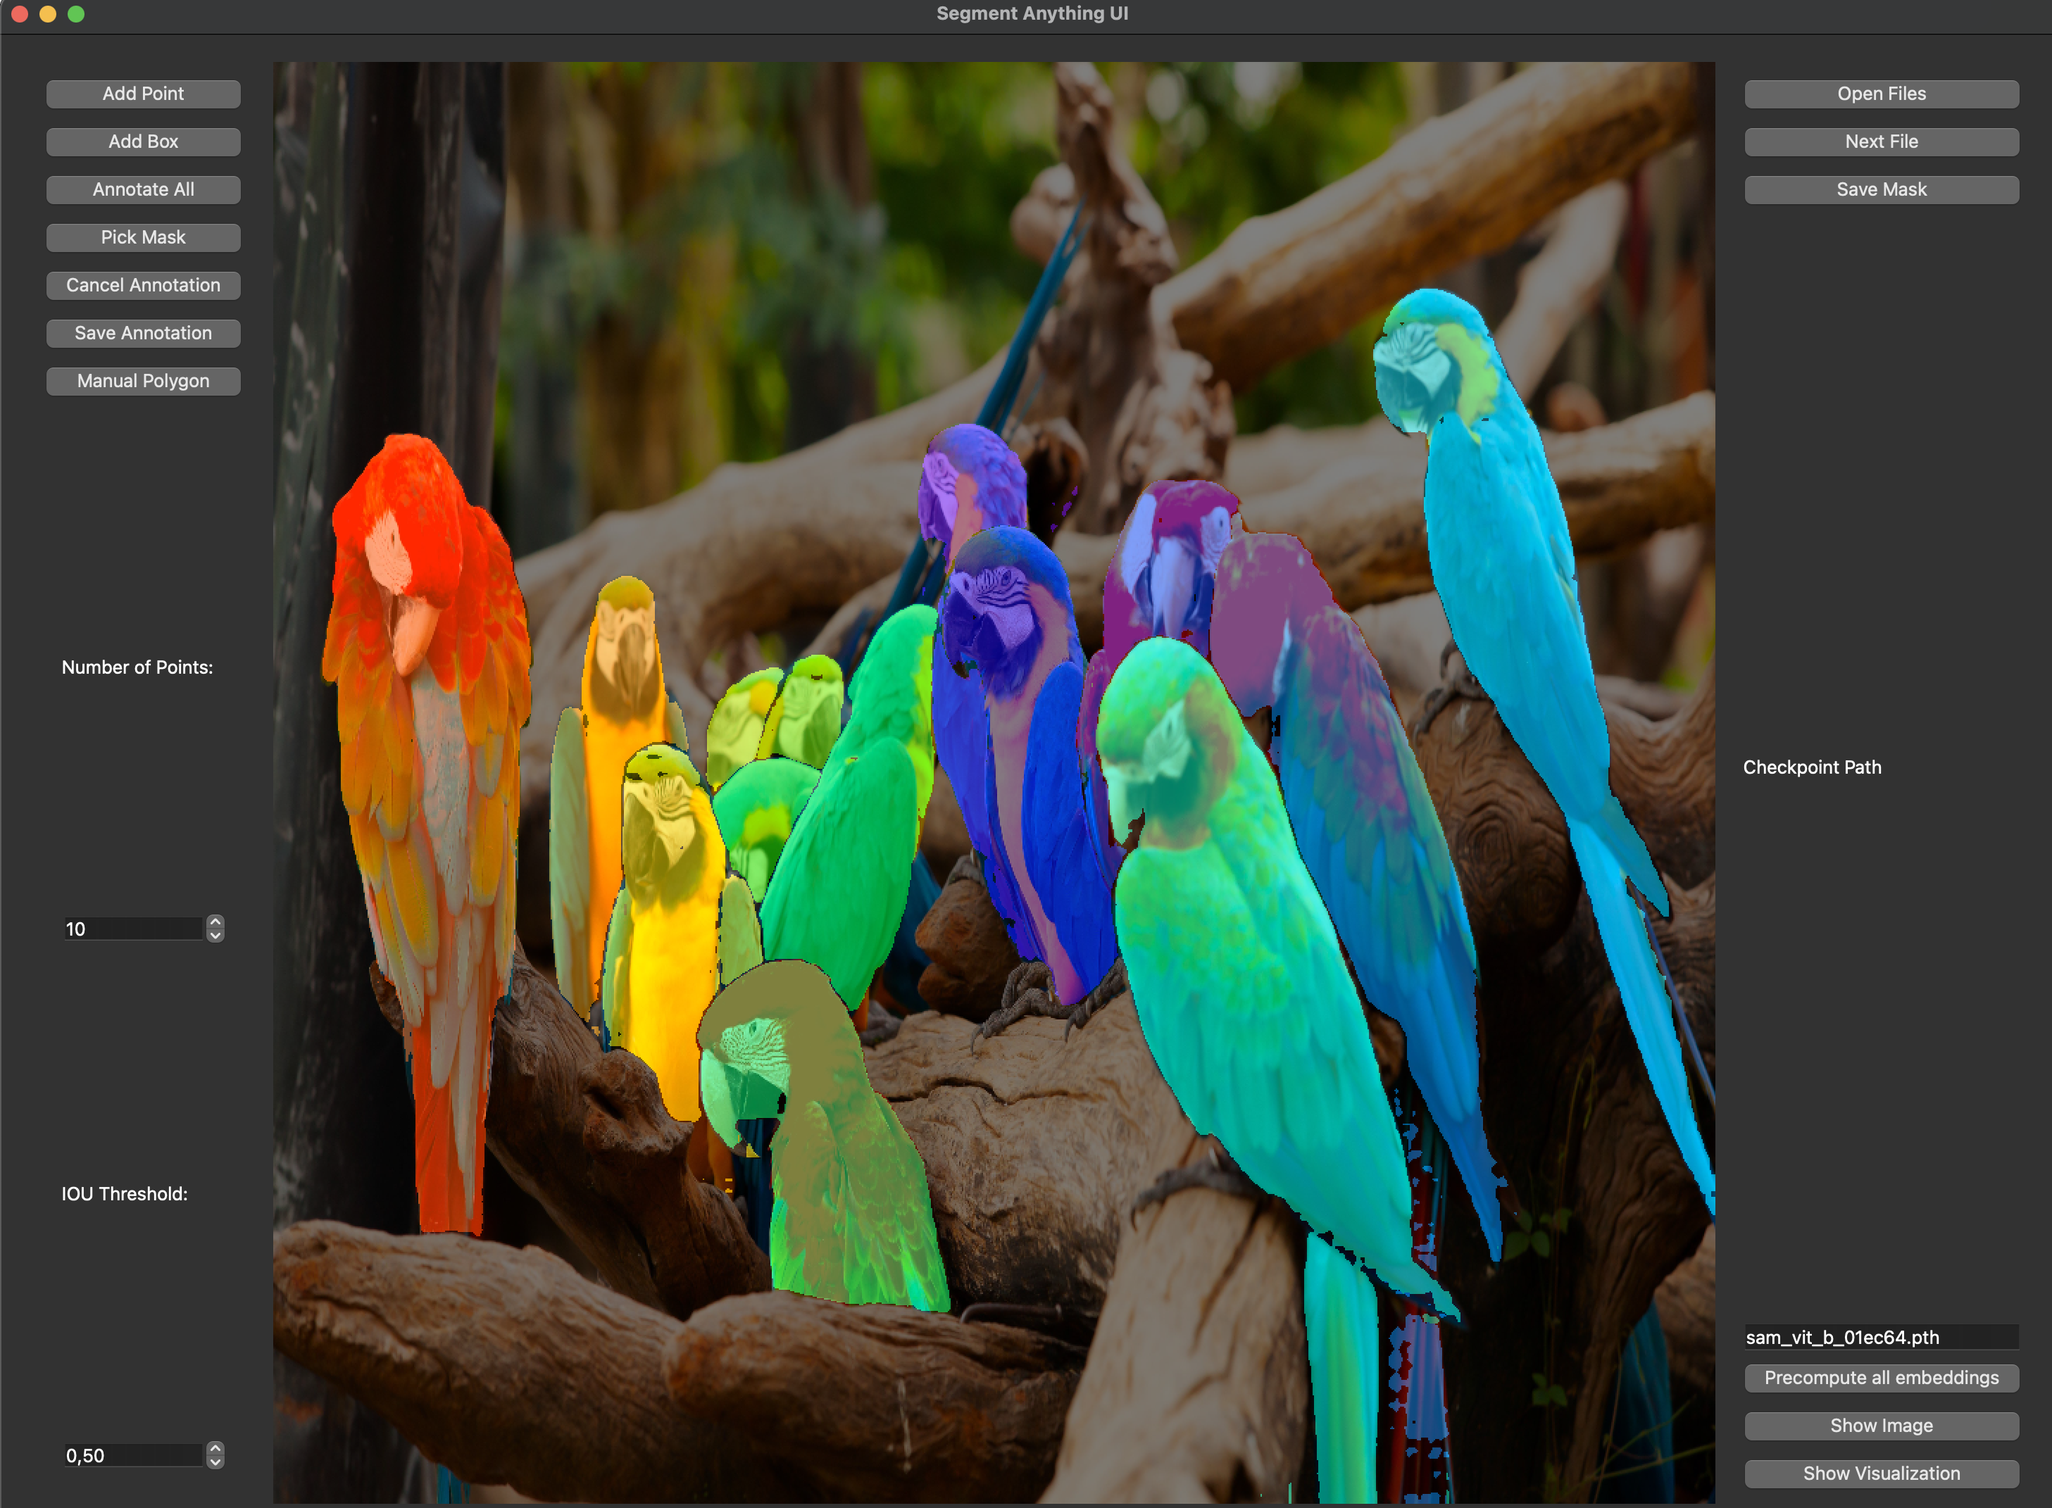
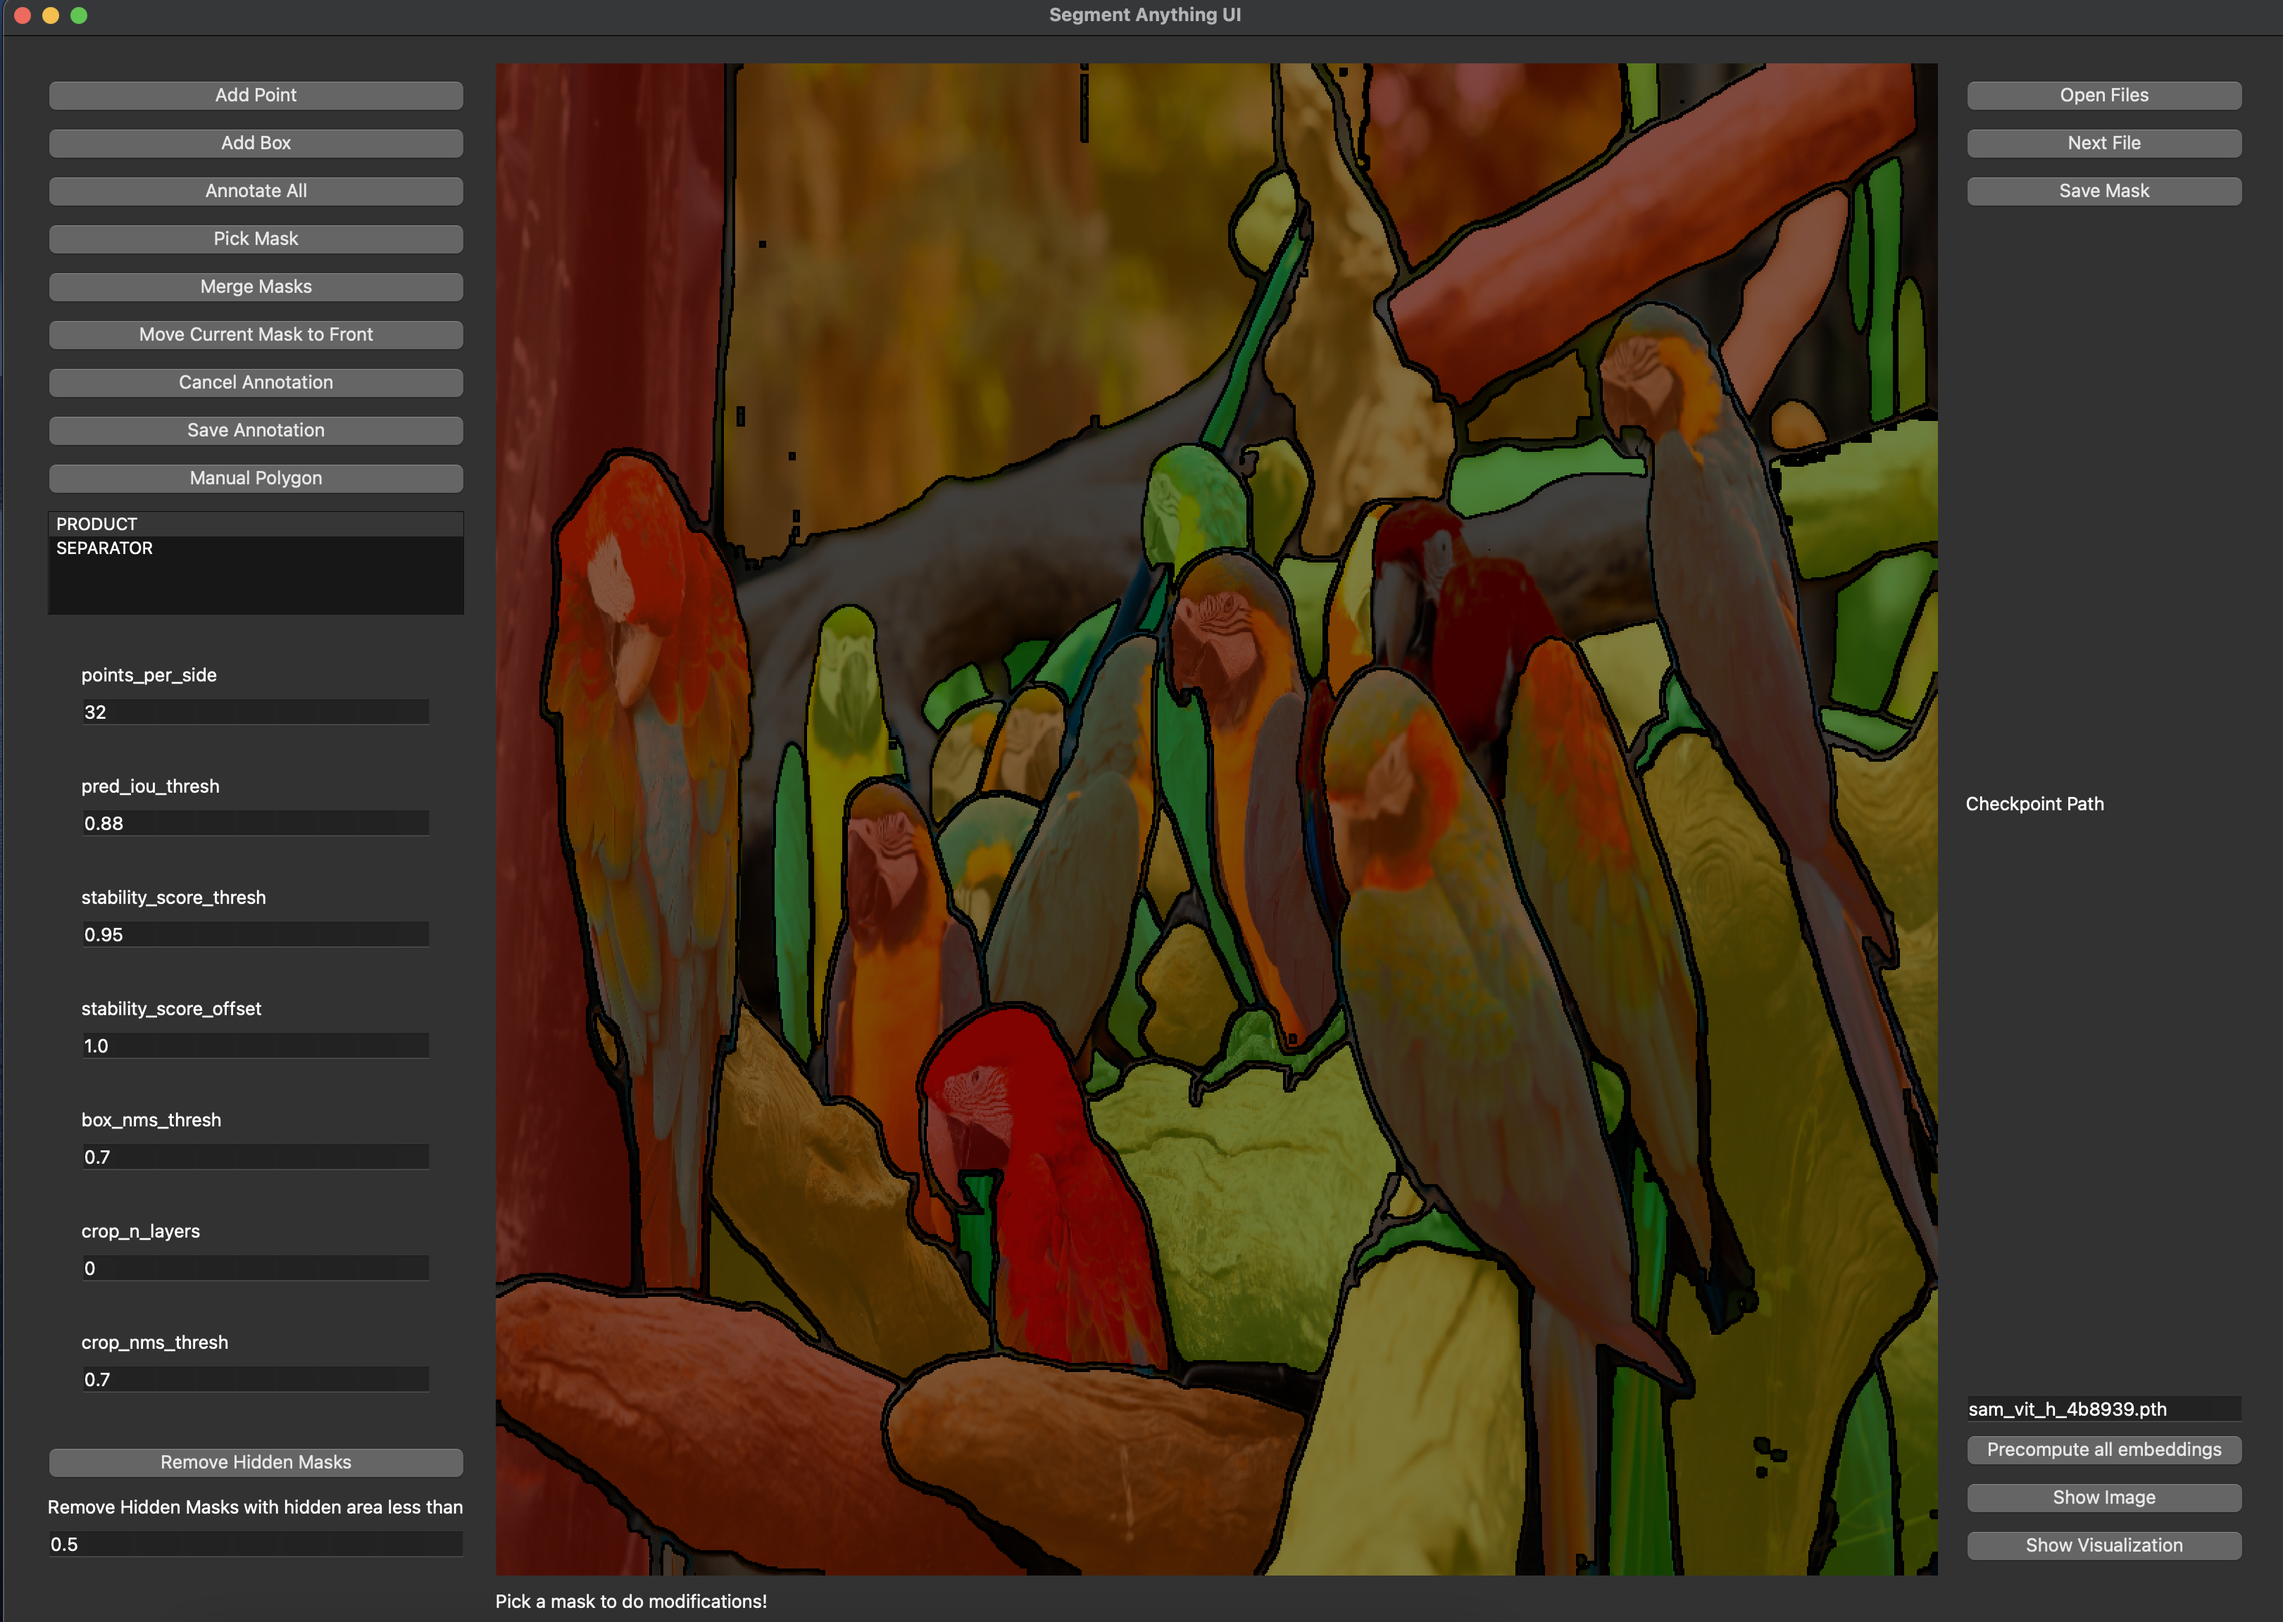
added new border

diff --git a/segment_anything_ui/annotator.py b/segment_anything_ui/annotator.py
@@ -178,15 +178,16 @@ class Annotator:
     def visualize_mask(self):
         mask_argmax = self.make_instance_mask()
         visualization = np.zeros_like(self.image)
+        border = np.zeros(self.image.shape[:2], dtype=np.uint8)
         for i in range(1, np.amax(mask_argmax) + 1):
             color = self.cmap(i)
             single_mask = np.zeros_like(mask_argmax)
             single_mask[mask_argmax == i] = 1
             visualization[mask_argmax == i, :] = np.array(color[:3]) * 255
-            border = single_mask - cv2.erode(
+            border += single_mask - cv2.erode(
                 single_mask, np.ones((5, 5), np.uint8), iterations=1)
-            visualization[border > 0, :] = [255, 255, 255]
-        return visualization
+        border = (border == 0).astype(np.uint8)
+        return visualization, border
 
     def make_instance_mask(self):
         background = np.zeros_like(self.masks[0]) + 1
@@ -196,7 +197,8 @@ class Annotator:
     def merge_image_visualization(self):
         if not len(self.masks):
             return self.image
-        self.visualization = cv2.addWeighted(self.image, 0.5, self.visualize_mask(), 0.5, 0)
+        visualization, border = self.visualize_mask()
+        self.visualization = cv2.addWeighted(self.image, 0.5, visualization, 0.5, 0) * border[:, :, np.newaxis]
         return self.visualization
 
     def remove_last_mask(self):
